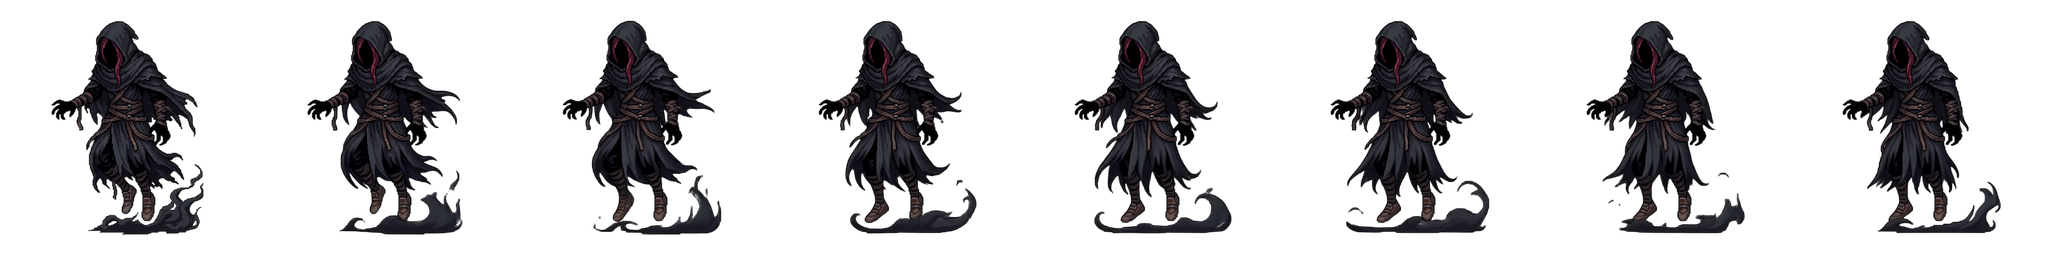
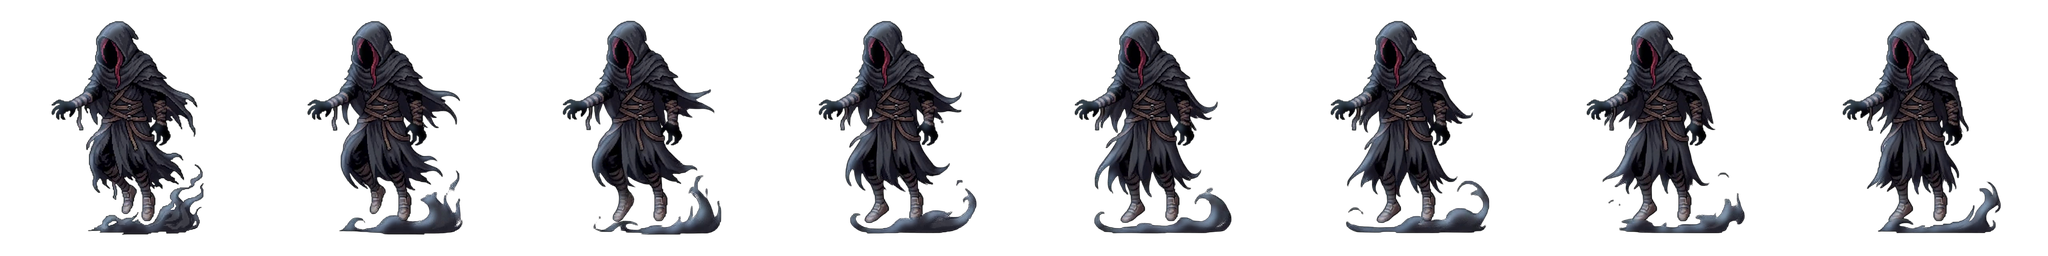
Nâng sáng 25% + viền rìa lạnh cho con bóng ma — và hai cờ để làm lại được
Art gốc sáng 0,128 trong khi 24 tấm quái hiện có trung bình 0,658 và viên cỏ
Corran là 0,722: bóng dáng đọc ra ngay nhưng nếp áo, dây chằng và đôi giày thì
mất sạch ở cỡ 113px.

gamma DÒ RA chứ không chọn tay: 0,8754 cho độ sáng đo được tăng đúng 25%
(0,128 → 0,160), và lệch chuẩn — thứ quyết định nét có tách khỏi nhau không —
tăng 15,5%. Viền rìa cộng thêm nên tổng ra 0,217, vẫn tối hơn quái thường 67%
nên nó giữ nguyên bản sắc bóng tối. Lệch chuẩn cuối 0,092 → 0,149.

Viền rìa dựng theo đúng luật ở mục "Đổ khối": lấy bóng gốc TRỪ bóng đã dời để
còn một dải mép, làm nhoè cho tắt dần, kẹp lại trong đường bao, rồi CỘNG SÁNG.
Rìa TRONG chứ không phải quầng NGOÀI — chủ thể tối trên nền sáng thì quầng
ngoài vô hình, sáng chồng sáng. Tô đè thay vì cộng sáng thì nếp áo dưới vành
biến mất, mà nếp áo mới là thứ vành này sinh ra để cho thấy.

Viền chạy SAU khi thu ô: bề dày phải tính bằng pixel ĐẦU RA. Vẽ ở 640 rồi thu
về 256 là vành mỏng đi 2,5 lần và gần như biến mất — cùng bài học "bề dày viền
phải tính theo TỈ LỆ" ở mục hào quang +N.

`nang_sang()` DÙNG LẠI của vfx_meowa.py, không chép. Để nhập được nó thì scipy
ở đó chuyển sang nhập muộn trong đúng ba hàm cần — nó chỉ phục vụ hai cờ vá
tranh, mà nhập ở đầu tệp thì mọi công cụ khác muốn dùng một hàm numpy thuần
cũng bị bắt cài scipy theo. Chép hàm sang tệp khác để né thì lại là bản sao thứ
hai của một luật đang sống.

Lệnh nướng ghi thẳng vào chú thích MOB_KHUNG — không ghi thì tấm này không ai
dựng lại được.
[…]

diff --git a/public/game/game.js b/public/game/game.js
@@ -1241,6 +1241,14 @@ const MOB_KHUNG = {
   // ⚠ `neoY` ĐO Ở ĐẾ GIÀY (hàng 549/640), KHÔNG ở đáy ảnh: art có vệt khói kéo xuống dưới
   // chân, neo theo đáy là con ma treo lơ lửng cao hơn mặt đất 14% chiều cao ô.
   // fps 10 = đúng nhịp gói gốc khai (Godot: speed 8,0 × duration 0,8 ⇒ 0,1 s mỗi khung).
+  //
+  // Art gốc quá tối để đọc được nét: sáng 0,128 trong khi 24 tấm quái hiện có trung bình 0,658
+  // và viên cỏ Corran là 0,722. Nướng lại có xử lý — LỆNH ĐÚNG, giữ lại để dựng lại được:
+  //   python3 tools/nuong_khungquai.py tq_corran --dung <8 khung>/*.png \
+  //           --chan 549 --cao 256 --sang 0.8754,1.0,1.08 --vien 5,#9ec8e8,0.55
+  // gamma 0,8754 dò ra để độ sáng ĐO ĐƯỢC tăng đúng 25% (0,128 → 0,160); viền rìa lạnh cộng
+  // thêm nên tổng ra 0,217. Vẫn tối hơn quái thường 67% — nó giữ nguyên bản sắc "bóng tối",
+  // chỉ là nay đọc được nếp áo. Lệch chuẩn (độ tách nét) 0,092 → 0,149.
   'tq_corran': { cot:8, hang:1, oRong:256, oCao:256, neoY:0.8578,
                  nhip:{ dung:[0,8,10] } },
 };

diff --git a/tools/nuong_khungquai.py b/tools/nuong_khungquai.py
@@ -38,7 +38,10 @@ BA PHÉP ĐO, và vì sao phải đo chứ không đặt tay:
    đôi ngần ấy mỗi lần đổi hướng.
 """
 import os, sys, glob, argparse
-from PIL import Image
+from PIL import Image, ImageFilter
+
+sys.path.insert(0, os.path.dirname(os.path.abspath(__file__)))
+from vfx_meowa import nang_sang          # dùng LẠI, không chép: xem ghi chú tại chỗ khai ở đó
 
 NHIP = ('dung', 'di', 'danh', 'chet')
 FPS_MAC_DINH = {'dung': 8, 'di': 12, 'danh': 16, 'chet': 10}
@@ -62,6 +65,37 @@ def _cat_dai(spec):
     return [im.crop((i * w, 0, (i + 1) * w, im.height)) for i in range(n)]
 
 
+def vien_ria(im, day, mau, manh):
+    """Rìa sáng lạnh trên mép TRÊN-TRÁI, nằm TRONG đường bao.
+
+    Vì sao rìa TRONG chứ không phải quầng NGOÀI: chủ thể tối đứng trên nền sáng thì quầng ngoài
+    vô hình (sáng chồng sáng). Rìa trong tạo một đường sáng ngay tại ranh giới, nên mắt đọc ra
+    một cái MÉP CÓ KHỐI thay vì một lỗ thủng đen.
+
+    Dựng theo đúng luật đã ghi ở CLAUDE.md mục "Đổ khối": lấy bóng gốc TRỪ bóng đã dời, để còn
+    đúng một dải mép. Phủ nguyên bóng sáng dời vài pixel rồi bóng tối dời ngược lại thì ruột
+    hình bị sáng chồng tối hoá xám — đỏ ra nâu hồng, vàng ra khaki.
+    Dải phải TẮT DẦN (làm nhoè rồi mới tô): một vành đều tăm tắp đọc thành nét viền dán.
+
+    Cộng SÁNG chứ không tô đè: rìa là ánh sáng hắt lên vải, không phải một lớp sơn phủ lên nó.
+    Tô đè thì nếp áo dưới vành biến mất, mà nếp áo mới là thứ vành này sinh ra để cho thấy.
+
+    Nguồn sáng ở TRÊN-TRÁI — cùng quy ước với `applyFormLight` trong game.
+    """
+    import numpy as np
+    a = np.asarray(im).astype(float)
+    al = a[..., 3]
+    doi = np.zeros_like(al)
+    doi[day:, day:] = al[:-day or None, :-day or None]     # bóng dời xuống-phải
+    dai = np.clip(al - doi, 0, 255)                        # còn đúng vành trên-trái
+    dai = np.asarray(Image.fromarray(dai.astype('uint8'))
+                     .filter(ImageFilter.GaussianBlur(day * 0.55))).astype(float)
+    dai *= al / 255.0                                      # kẹp lại trong đường bao
+    k = (dai / 255.0 * manh)[..., None]
+    rgb = np.clip(a[..., :3] + np.array(mau, float) * k, 0, 255)
+    return Image.fromarray(np.dstack([rgb, al]).astype('uint8'))
+
+
 def _gop(a, b):
     if a is None: return b
     if b is None: return a
@@ -78,6 +112,12 @@ def main():
     ap.add_argument('--chan', type=int, default=None,
                     help='hàng của ĐẾ CHÂN trong khung gốc — đè phép đo đáy nhịp `dung`. '
                          'Bắt buộc khi art có khói/hào quang/bóng vẽ sẵn dưới chân.')
+    ap.add_argument('--sang', default='',
+                    help='"gamma,gain,sat" — nâng sáng cho art tối đọc được trên nền sáng. '
+                         'Dùng chung hàm với tools/vfx_meowa.py.')
+    ap.add_argument('--vien', default='',
+                    help='"dày,#rrggbb,mạnh" — rìa sáng lạnh mép trên-trái, NẰM TRONG đường bao. '
+                         'Ví dụ: 5,#9ec8e8,0.55')
     ap.add_argument('--cao', type=int, default=None,
                     help='chiều cao ô ĐẦU RA (px). Không khai thì giữ nguyên cỡ gốc. '
                          'Trùm vẽ ra 106-132px trên màn, nên ô 640 là thừa gấp 5 lần điểm ảnh.')
@@ -135,6 +175,18 @@ def main():
         r = a.cao / oCao
         oRong, oCao = max(1, round(oRong * r)), a.cao
         khung = [k.resize((oRong, oCao), Image.LANCZOS) for k in khung]
+
+    if a.sang:
+        g, gain, sat = (float(v) for v in a.sang.split(','))
+        khung = [nang_sang(k, g, gain, sat) for k in khung]
+
+    # ⚠ Viền chạy SAU khi thu ô, không trước: bề dày phải tính bằng pixel ĐẦU RA. Vẽ ở cỡ gốc
+    # rồi thu 640→256 là vành mỏng đi 2,5 lần và gần như biến mất — cùng bài học "bề dày viền
+    # phải tính theo TỈ LỆ" đã ghi ở mục hào quang +N.
+    if a.vien:
+        _d, _m, _s = a.vien.split(',')
+        rgb = tuple(int(_m.lstrip('#')[i:i+2], 16) for i in (0, 2, 4))
+        khung = [vien_ria(k, int(_d), rgb, float(_s)) for k in khung]
 
     cot = min(COT_TOI_DA, len(khung))
     hang = (len(khung) + cot - 1) // cot
